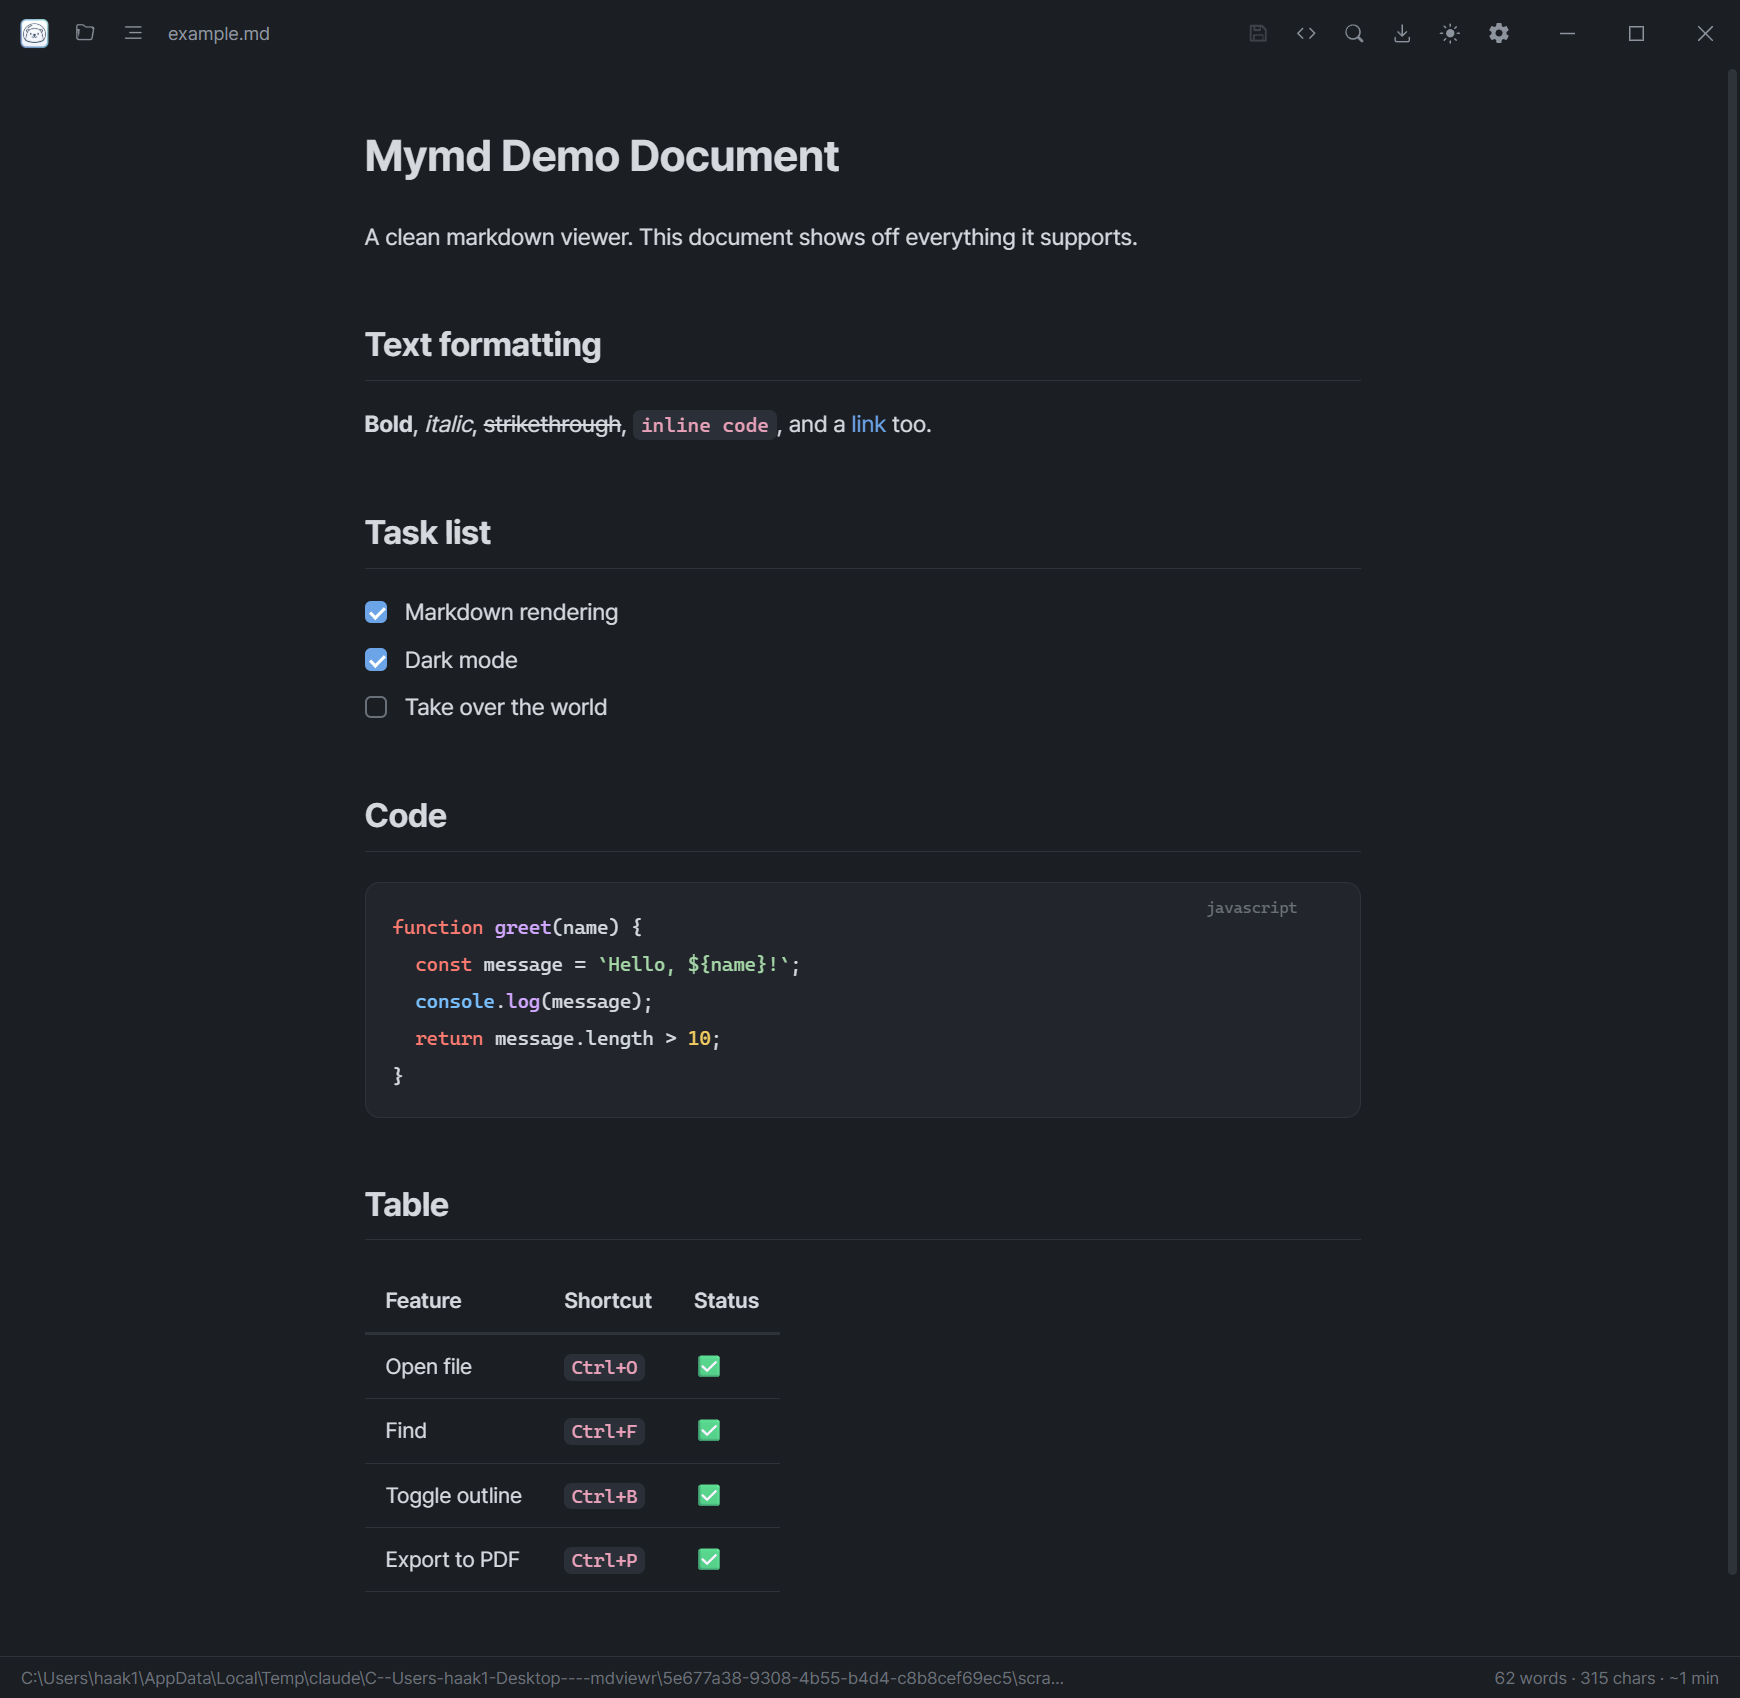
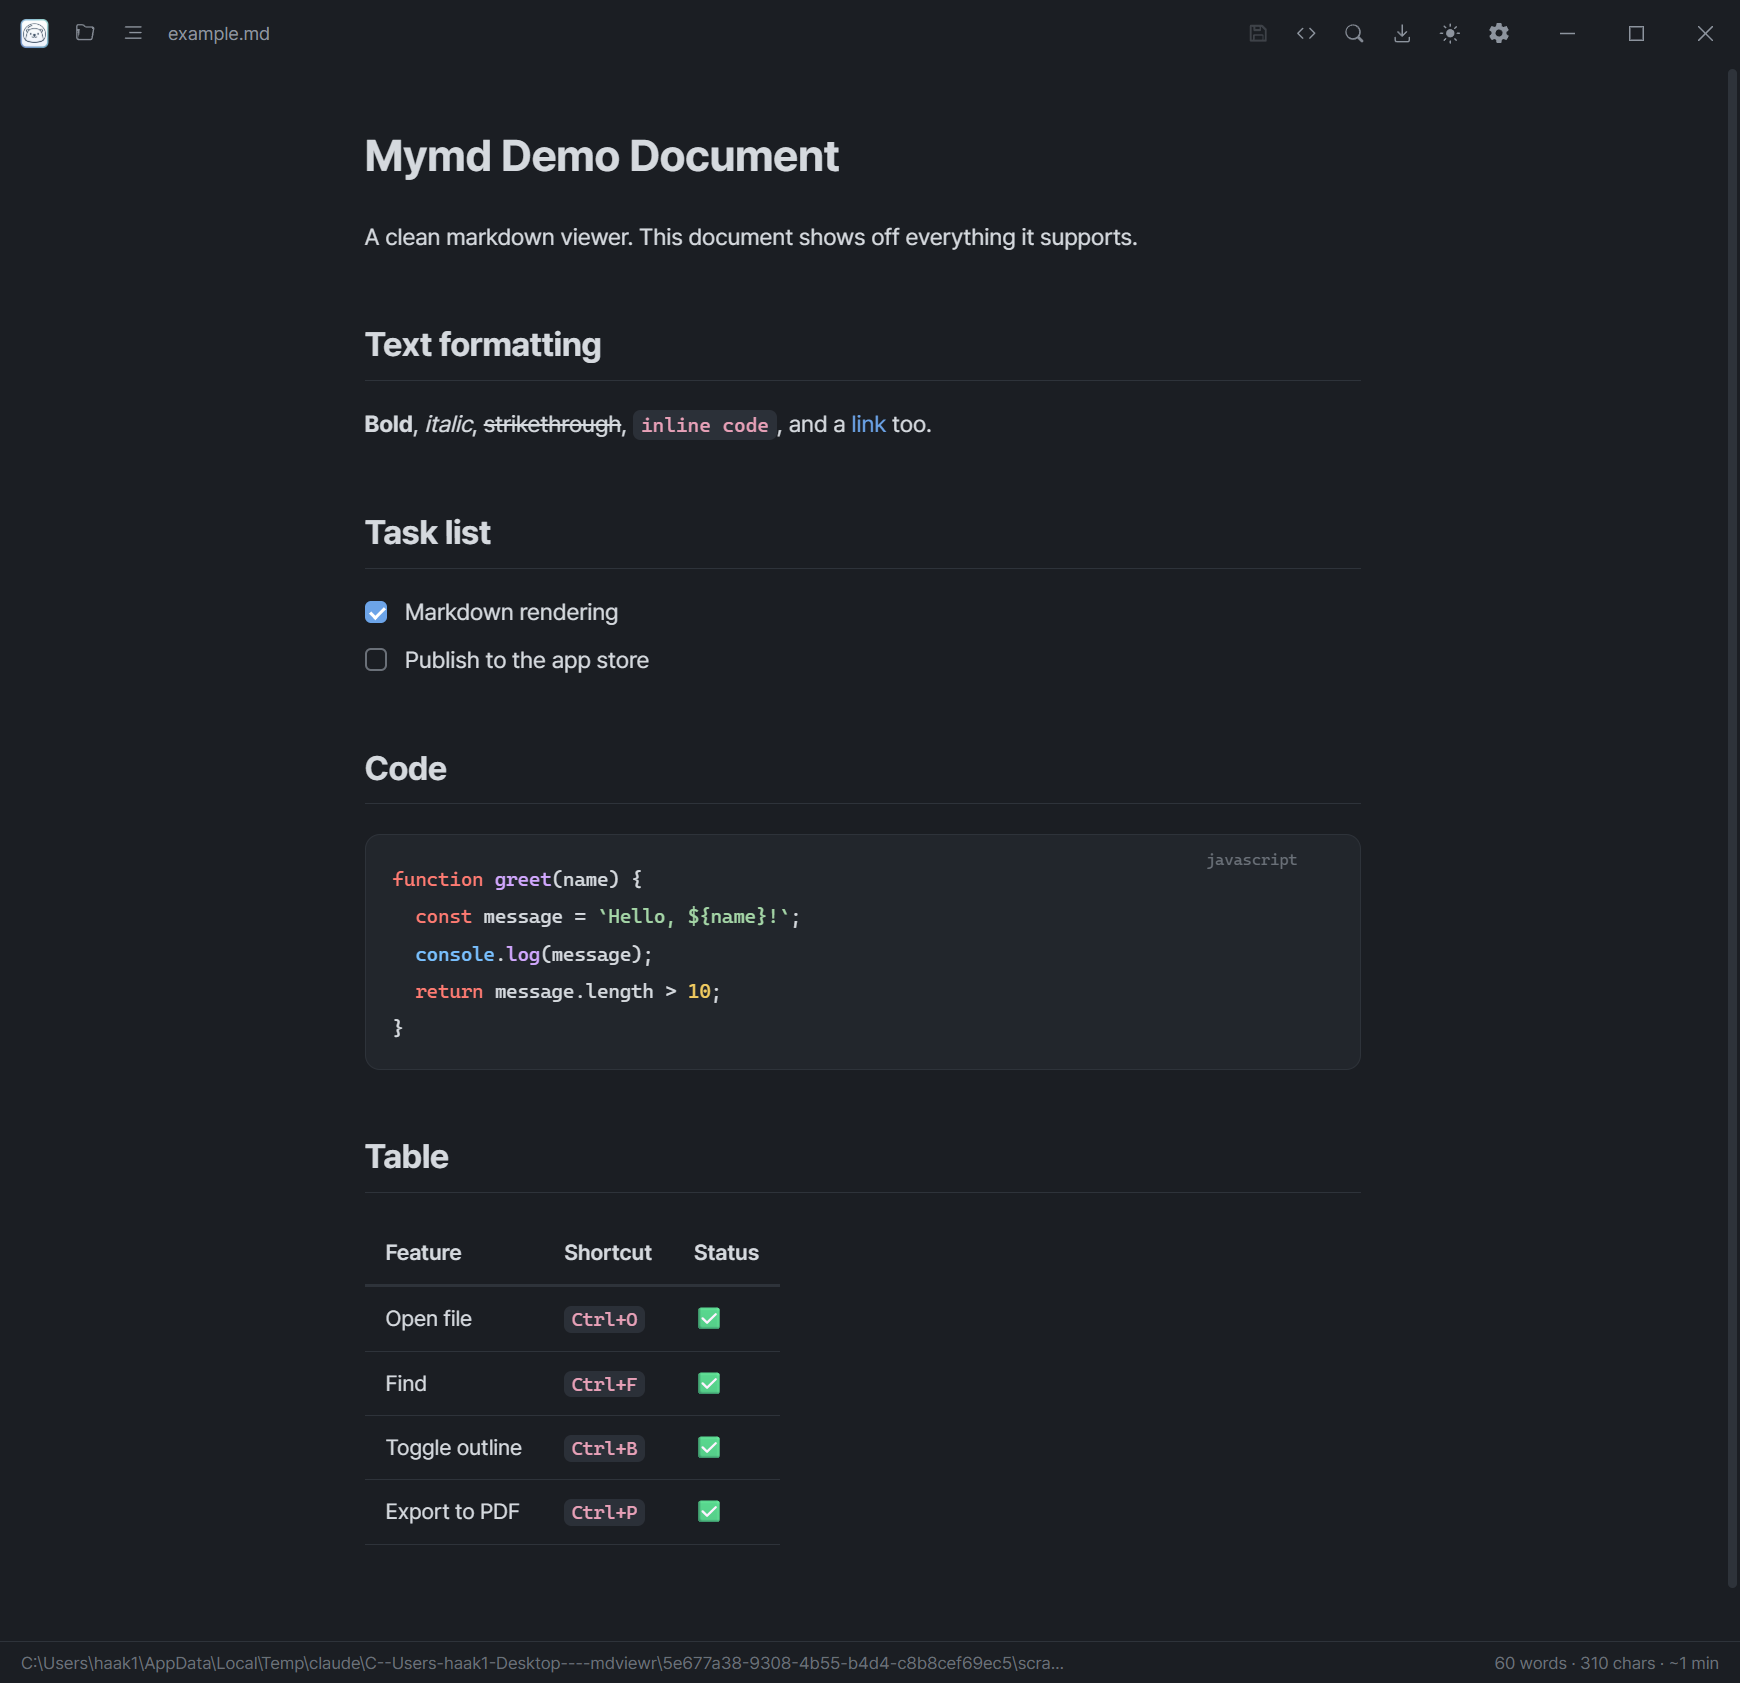
docs: match light/dark screenshot dimensions

diff --git a/main.js b/main.js
@@ -418,6 +418,12 @@ function maybeRunScreenshot(win) {
         win.setContentSize(1160, Math.min(4000, 44 + Math.max(300, h)));
         await new Promise((r) => setTimeout(r, 500));
       }
+      const caphArg = process.argv.find((a) => a.startsWith('--caph='));
+      if (caphArg) {
+        // Fixed content height — lets two captures come out identically sized.
+        win.setContentSize(1160, parseInt(caphArg.split('=')[1], 10));
+        await new Promise((r) => setTimeout(r, 500));
+      }
       if (execArg) {
         const js = Buffer.from(execArg.split('=')[1], 'base64').toString('utf-8');
         await win.webContents.executeJavaScript(`(async () => { ${js} })()`);

diff --git a/README.md b/README.md
@@ -20,7 +20,7 @@
 
 | Light | Dark |
 | --- | --- |
-| ![Light theme](docs/screenshot-light.png?v=2) | ![Dark theme](docs/screenshot-dark.png?v=2) |
+| ![Light theme](docs/screenshot-light.png?v=3) | ![Dark theme](docs/screenshot-dark.png?v=3) |
 
 ## Download
 